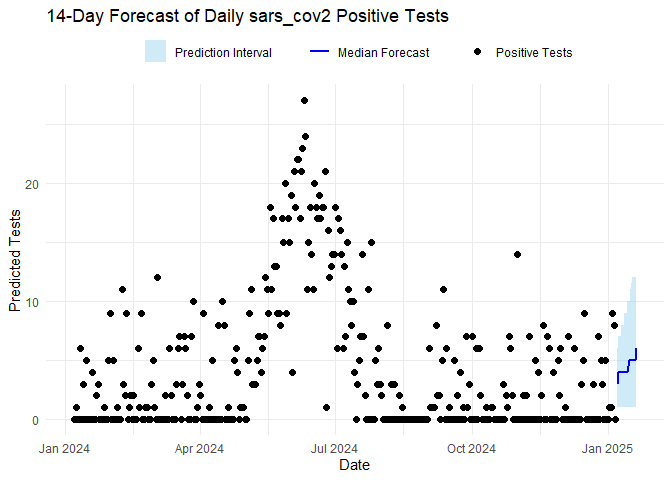
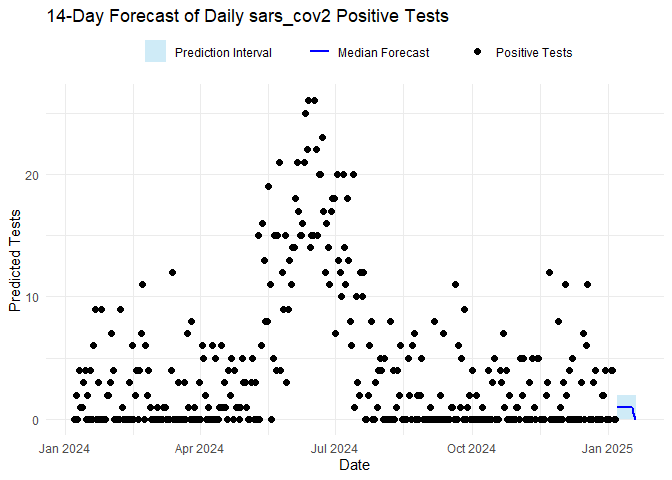
updating package github pages link in readme

diff --git a/README.md b/README.md
@@ -10,7 +10,11 @@ experimental](https://img.shields.io/badge/lifecycle-experimental-orange.svg)](h
 [![CRAN
 status](https://www.r-pkg.org/badges/version/ViroReportR)](https://CRAN.R-project.org/package=ViroReportR)
 [![R-CMD-check](https://github.com/BCCDC-PHSA/ViroReportR/actions/workflows/R-CMD-check.yaml/badge.svg)](https://github.com/BCCDC-PHSA/ViroReportR/actions/workflows/R-CMD-check.yaml)
+[![pkgdown](https://github.com/BCCDC-PHSA/ViroReportR/actions/workflows/pkgdown.yaml/badge.svg)](https://bccdc-phsa.github.io/ViroReportR/)
 <!-- badges: end -->
+
+📘 **Documentation website:**  
+<https://bccdc-phsa.github.io/ViroReportR/>
 
 The goal of `ViroReportR` is to provide a toolbox to conveniently
 generate short-term forecasts (with accompanied diagnostics) for viral
@@ -95,32 +99,32 @@ head(vri_data_list)
 #> # A tibble: 366 × 2
 #>    date       confirm
 #>    <date>       <dbl>
-#>  1 2024-01-07      10
-#>  2 2024-01-08       5
-#>  3 2024-01-09      10
-#>  4 2024-01-10       0
+#>  1 2024-01-07       1
+#>  2 2024-01-08       0
+#>  3 2024-01-09       3
+#>  4 2024-01-10       3
 #>  5 2024-01-11       0
-#>  6 2024-01-12       1
-#>  7 2024-01-13       0
+#>  6 2024-01-12       0
+#>  7 2024-01-13       6
 #>  8 2024-01-14       0
 #>  9 2024-01-15       0
-#> 10 2024-01-16       2
+#> 10 2024-01-16       1
 #> # ℹ 356 more rows
 #> 
 #> $rsv
 #> # A tibble: 366 × 2
 #>    date       confirm
 #>    <date>       <dbl>
-#>  1 2024-01-07       1
-#>  2 2024-01-08       0
-#>  3 2024-01-09       4
+#>  1 2024-01-07       0
+#>  2 2024-01-08       5
+#>  3 2024-01-09       0
 #>  4 2024-01-10       0
-#>  5 2024-01-11       8
+#>  5 2024-01-11       0
 #>  6 2024-01-12       0
-#>  7 2024-01-13       0
-#>  8 2024-01-14       0
+#>  7 2024-01-13       6
+#>  8 2024-01-14       8
 #>  9 2024-01-15       0
-#> 10 2024-01-16       1
+#> 10 2024-01-16       0
 #> # ℹ 356 more rows
 #> 
 #> $sars_cov2
@@ -128,15 +132,15 @@ head(vri_data_list)
 #>    date       confirm
 #>    <date>       <dbl>
 #>  1 2024-01-07       0
-#>  2 2024-01-08       1
+#>  2 2024-01-08       2
 #>  3 2024-01-09       0
-#>  4 2024-01-10       0
-#>  5 2024-01-11       6
-#>  6 2024-01-12       0
+#>  4 2024-01-10       4
+#>  5 2024-01-11       1
+#>  6 2024-01-12       1
 #>  7 2024-01-13       3
-#>  8 2024-01-14       0
-#>  9 2024-01-15       5
-#> 10 2024-01-16       0
+#>  8 2024-01-14       4
+#>  9 2024-01-15       0
+#> 10 2024-01-16       2
 #> # ℹ 356 more rows
 ```
 
